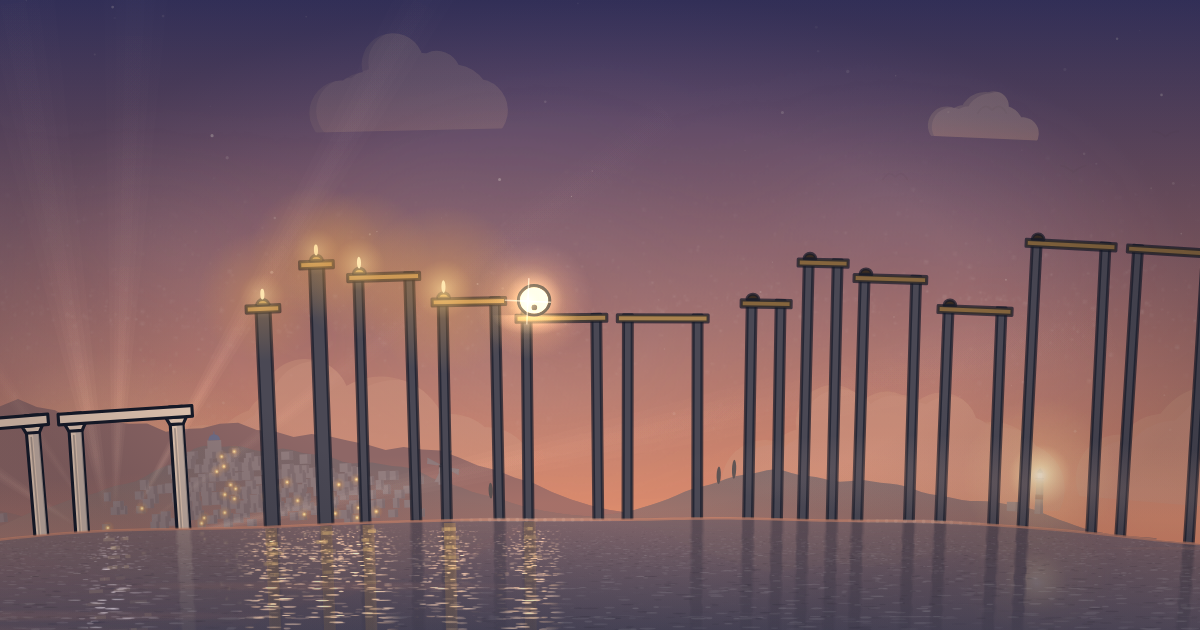
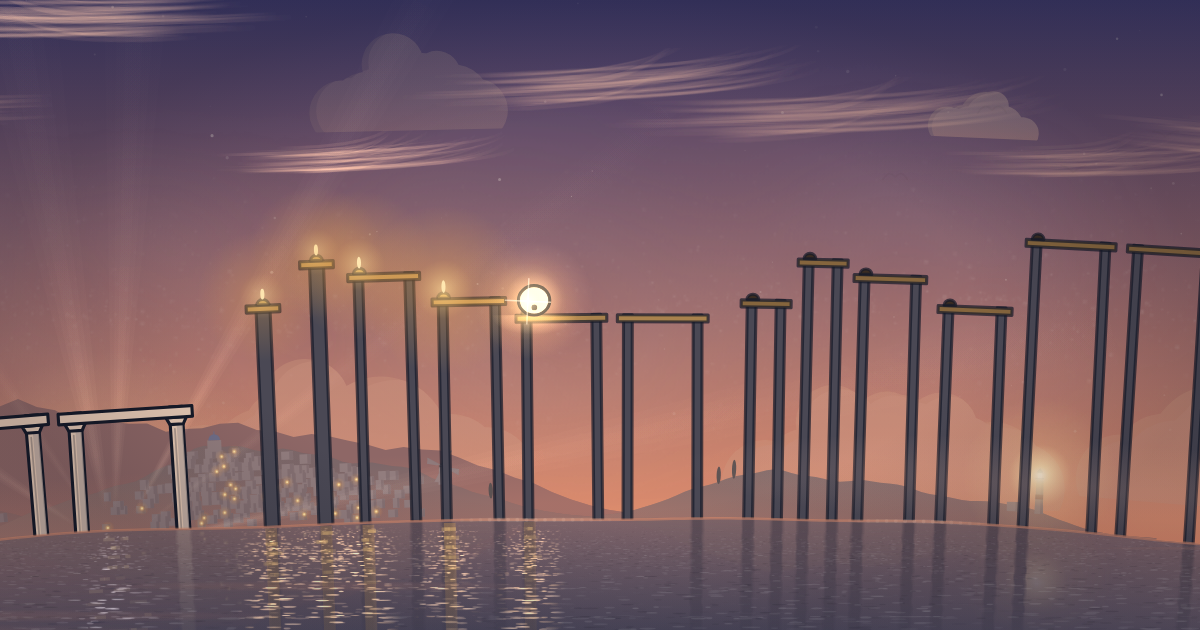
craft(gymnopedie): cirrus that take the sunset's colours and keep them after
High thin cloud over the cumulus, in a slow layer of its own: faint white by
day, gold then orange and pink as the sun goes down, brightest on the sun's
side, glowing pink to mauve after it has set as the first lamps are lit, and
gone as the full night comes; the same before the dawn. Drawn once, tinted
when the colour moves on: 0.1-0.2 ms a frame at 6x. A new check; the share
card redrawn.

diff --git a/apps/rube/src/shows/versions/gymnopedie/orbit/cirrus.ts b/apps/rube/src/shows/versions/gymnopedie/orbit/cirrus.ts
@@ -1,0 +1,151 @@
+import { mixHex } from '../../../../parts'
+import { inLayer, layered, overcastAt, repeatOf } from './air'
+import { RADIUS, along } from './path'
+import { hash, polar, skyAt, smooth } from './world'
+import { sunAngle, type Ctx2D } from './frame'
+
+/**
+ * Cirrus: high thin cloud, mares' tails, far above the cumulus, in a layer of its own that goes by slowest of all the
+ * air's. By day a faint white; as the sun goes down they take its light, gold and then orange and pink, brightest towards
+ * the sun, and go on glowing after it has set (the afterglow), pink to mauve, until the light leaves them grey and the
+ * night has them. And so again, the other way round, before the dawn.
+ */
+
+export const CIRRUS = { f: 0.06, span: repeatOf(0.06, 1), wind: 2 }
+
+export const WISPS = Array.from({ length: 13 }, (_, i) => ({
+  x: ((i + 0.15 + 0.7 * hash(i, 801)) * CIRRUS.span) / 13,
+  h: 3.0 + 1.7 * hash(i, 802),
+  len: 2.4 + 2.6 * hash(i, 803),
+  tilt: (hash(i, 804) - 0.5) * 0.12,
+  kind: Math.floor(hash(i, 805) * 4),
+  flip: hash(i, 806) < 0.5,
+}))
+
+const SPRITE_W = 512
+const SPRITE_H = 96
+let sprites: HTMLCanvasElement[] | null = null
+
+/** Four wisps, drawn once in white: fine strands sweeping along, hooked up at one end. */
+function wispSprites(): HTMLCanvasElement[] {
+  return [0, 1, 2, 3].map((kind) => {
+    const c = document.createElement('canvas')
+    c.width = SPRITE_W
+    c.height = SPRITE_H
+    const g = c.getContext('2d')!
+    g.lineCap = 'round'
+    const n = 34
+    for (let i = 0; i < n; i++) {
+      const y = SPRITE_H * (0.45 + 0.4 * (hash(kind, i, 811) - 0.5))
+      const x0 = SPRITE_W * (0.04 + 0.3 * hash(kind, i, 812))
+      const x1 = SPRITE_W * (0.55 + 0.4 * hash(kind, i, 813))
+      const hook = SPRITE_H * (0.15 + 0.3 * hash(kind, i, 814))
+      // Thinner and fainter towards the strand's ends.
+      const grad = g.createLinearGradient(x0, 0, x1, 0)
+      const a = 0.05 + 0.09 * hash(kind, i, 815)
+      grad.addColorStop(0, 'rgba(255, 255, 255, 0)')
+      grad.addColorStop(0.25, `rgba(255, 255, 255, ${a.toFixed(3)})`)
+      grad.addColorStop(0.7, `rgba(255, 255, 255, ${(a * 0.9).toFixed(3)})`)
+      grad.addColorStop(1, 'rgba(255, 255, 255, 0)')
+      g.strokeStyle = grad
+      g.lineWidth = 1.5 + 4 * hash(kind, i, 816)
+      g.beginPath()
+      g.moveTo(x0, y)
+      // Swept along, and hooked up at the far end: the mare's tail.
+      g.bezierCurveTo(x0 + (x1 - x0) * 0.4, y + 6 * (hash(kind, i, 817) - 0.5), x1 - 30, y - 4, x1, y - hook)
+      g.stroke()
+    }
+    return c
+  })
+}
+
+/** The wisps tinted one colour: remade only when the colour has moved on. */
+const tinted = new Map<string, HTMLCanvasElement[]>()
+function tintedSprites(colour: string): HTMLCanvasElement[] {
+  const got = tinted.get(colour)
+  if (got) return got
+  sprites ??= wispSprites()
+  const out = sprites.map((s) => {
+    const c = document.createElement('canvas')
+    c.width = SPRITE_W
+    c.height = SPRITE_H
+    const g = c.getContext('2d')!
+    g.drawImage(s, 0, 0)
+    g.globalCompositeOperation = 'source-in'
+    g.fillStyle = colour
+    g.fillRect(0, 0, SPRITE_W, SPRITE_H)
+    return c
+  })
+  if (tinted.size > 24) tinted.delete(tinted.keys().next().value!)
+  tinted.set(colour, out)
+  return out
+}
+
+/** Their light at `t`: what colour, and how much of them is seen. */
+export function cirrusLight(t: number): { colour: string; light: number; glow: number } {
+  // How far the sun is below (positive) or above (negative) the horizon, radians, taken within a half-turn.
+  const a = sunAngle(t)
+  const below = Math.abs(Math.atan2(Math.sin(a), Math.cos(a))) - 1.75
+  const keys: [number, string, number, number][] = [
+    // below, colour, how much is seen, how much they glow (lit from under by a low sun).
+    [-1.6, '#FFFFFF', 0.32, 0],
+    [-0.5, '#FFF4E2', 0.36, 0],
+    [-0.2, '#FFDCA8', 0.5, 0.35],
+    [0.0, '#FFB28A', 0.62, 0.7],
+    [0.18, '#EE92A6', 0.6, 0.55],
+    [0.4, '#B884A8', 0.42, 0.2],
+    [0.7, '#6E6E8E', 0.22, 0],
+    [1.0, '#3A3E5C', 0, 0],
+  ]
+  let i = 0
+  while (i + 2 < keys.length && keys[i + 1][0] <= below) i++
+  const [x0, c0, l0, g0] = keys[i]
+  const [x1, c1, l1, g1] = keys[i + 1]
+  const f = smooth(below, x0, x1)
+  // And the afterglow ends as the sky goes dark: they are gone in the full night, and back as it lifts before the dawn.
+  const clear = (1 - overcastAt(t)) * (1 - smooth(skyAt(t).night, 0.6, 0.88))
+  return { colour: mixHex(c0, c1, f), light: (l0 + (l1 - l0) * f) * clear, glow: (g0 + (g1 - g0) * f) * clear }
+}
+
+/** Colours a little apart are one colour here, so the tinted wisps are remade only now and then. */
+const quantise = (hex: string): string =>
+  '#' + [1, 3, 5].map((i) => Math.min(255, Math.round(parseInt(hex.slice(i, i + 2), 16) / 6) * 6).toString(16).padStart(2, '0')).join('')
+
+/**
+ * The cirrus, in the world's transform, each wisp at its place in its layer, high over the sea: brighter on the side of
+ * the frame the sun is on (`sunX`, device pixels across the canvas), as cloud is when lit from behind.
+ */
+export function drawCirrus(ctx: Ctx2D, k: number, t: number, half: number, sunX: number, alpha: number): void {
+  const { colour, light, glow } = cirrusLight(t)
+  if (light * alpha < 0.01) return
+  const set = tintedSprites(quantise(colour))
+  const u = along(t)
+  const W = ctx.canvas.width
+  const m = ctx.getTransform()
+  for (const w of WISPS) {
+    const d = layered(w.x, t, CIRRUS.f, CIRRUS.span, CIRRUS.wind)
+    const edge = inLayer(d, CIRRUS.span)
+    if (Math.abs(d) > half + w.len || edge < 0.01) continue
+    const [px, py] = polar(u + d, w.h)
+    // Towards the sun, brighter.
+    const sx = m.a * px * k + m.c * py * k + m.e
+    const near = Math.exp(-(((sx - sunX) / (W * 0.45)) ** 2))
+    const a = alpha * edge * light * (0.7 + 0.6 * near * (0.4 + glow))
+    if (a < 0.01) continue
+    ctx.save()
+    ctx.translate(px * k, py * k)
+    ctx.rotate((u + d) / RADIUS + w.tilt)
+    if (w.flip) ctx.scale(-1, 1)
+    const L = w.len * k
+    const H = (w.len * k * SPRITE_H) / SPRITE_W
+    ctx.globalAlpha = Math.min(1, a * 1.6)
+    ctx.drawImage(set[w.kind], -L / 2, -H / 2, L, H)
+    // Lit from under by the low sun: a glow over them.
+    if (glow > 0.01) {
+      ctx.globalCompositeOperation = 'lighter'
+      ctx.globalAlpha = Math.min(1, a * glow * 1.2 * (0.5 + near))
+      ctx.drawImage(set[w.kind], -L / 2, -H / 2, L, H)
+    }
+    ctx.restore()
+  }
+}

diff --git a/apps/rube/checks/gymnopedie.ts b/apps/rube/checks/gymnopedie.ts
@@ -17,6 +17,7 @@ import { LEAPS } from '../src/shows/versions/gymnopedie/orbit/dolphins'
 import { BLOSSOM } from '../src/shows/versions/gymnopedie/orbit/blossom'
 import { cometAnswers, cometAt, cometAngle, cometFlare } from '../src/shows/versions/gymnopedie/orbit/comet'
 import { squallAt } from '../src/shows/versions/gymnopedie/orbit/squall'
+import { CIRRUS, cirrusLight } from '../src/shows/versions/gymnopedie/orbit/cirrus'
 import { ISLES, LIGHTHOUSE_ON, RANGE, SHORE, beamAt, lighthouseAt, windowAt } from '../src/shows/versions/gymnopedie/orbit/shore'
 
 type Check = (name: string, ok: boolean, detail?: string) => void
@@ -131,7 +132,7 @@ export function checkGymnopedie(perf: Performance, version: Version, check: Chec
   check('gymnopedie: every flower opens as the ball comes, and closes at dawn', flowers.length > 150 && closed.length === 0, closed.slice(0, 5).map((s) => s.index).join(', '))
 
   // The air: clouds, gulls, mist and fireflies at their depths, all coming round with the period.
-  const layers = [BANK, HEAPS, GULLS, MIST, FIREFLY, SAILS, SHORE, RANGE]
+  const layers = [BANK, HEAPS, GULLS, MIST, FIREFLY, SAILS, SHORE, RANGE, CIRRUS]
   const roundAgain = layers.every((l) => [0, 3.3, 17.9, 40].every((x) => {
     const a = layered(x, 0, l.f, l.span, l.wind)
     const b = layered(x, PERIOD - 1e-7, l.f, l.span, l.wind)
@@ -188,6 +189,11 @@ export function checkGymnopedie(perf: Performance, version: Version, check: Chec
       const s = squallAt(t)!
       return rainAt(t) < 0.5 ? (bowAt(t) > 0.3 ? s.x > 0 : s.x < 0 || t > 170) : Math.abs(s.x) > 1.6
     }) && squallSeen.some((t) => t < 152 && squallAt(t)!.x < -2) && squallSeen.some((t) => bowAt(t) > 0.5 && squallAt(t)!.x > 2) && squallAt(10) === null && squallAt(400) === null)
+  // The cirrus: taking the sunset's colours and keeping them after, gone in the full night, and coming round.
+  const cirrusTimes = Array.from({ length: 1270 }, (_, i) => i * 0.5)
+  check('gymnopedie: the cirrus glow at sunset and after it, and are gone in the full night',
+    cirrusTimes.every((t) => skyAt(t).night < 0.88 || cirrusLight(t).light < 1e-6) &&
+    cirrusTimes.some((t) => t > 200 && t < 240 && cirrusLight(t).glow > 0.3) && Math.abs(cirrusLight(0).light - cirrusLight(PERIOD - 1e-6).light) < 1e-4)
   const meteorsOk = METEORS.length >= 4 && METEORS.every((t) => {
     const n = MELODY.find((m) => m.t === t)
     return !!n && n.piece > 0 && n.p === Math.max(...MELODY.filter((m) => m.piece === n.piece).map((m) => m.p)) && skyAt(t).night > 0.5

diff --git a/apps/rube/src/shows/versions/gymnopedie/orbit/sky.ts b/apps/rube/src/shows/versions/gymnopedie/orbit/sky.ts
@@ -8,6 +8,7 @@ import {
 } from './air'
 import { drawShore } from './shore'
 import { drawSquall } from './squall'
+import { drawCirrus } from './cirrus'
 import { HEAD, MID, cometAngle, cometAnswers, cometFlare, cometLight, cometSprite, cometSway } from './comet'
 import { alpha, hash, osc, polar, smooth, type Sky } from './world'
 import {
@@ -529,6 +530,8 @@ function air(p: p5, c: PieceCtx, v: View, day: Sky, sun: Body, moon: Body, near:
       p.pop()
     }
   }
+  // Highest and furthest: the cirrus, which take the low sun's colours and keep them after it has set.
+  drawCirrus(ctx, k, c.t, half, sun.x, near)
   layer(BANKS, BANK, hazy, (0.6 - 0.4 * day.night) * near * light.alpha, false)
   // The far shore, in front of the bank: islands, their villages and the lighthouse.
   drawShore(ctx, k, c.t, half, { day, sunAngle: sunAngle(c.t), moonUp }, near)

diff --git a/apps/rube/src/shows/versions/gymnopedie/GYMNOPEDIE.md b/apps/rube/src/shows/versions/gymnopedie/GYMNOPEDIE.md
@@ -128,6 +128,11 @@ The planet has weather, at depths behind the stones (`air.ts`):
   horizon's colour under them at dawn and dusk, dim and edged silver under the moon. How much of the sky is cloud
   moves through the day (`coverAt`): most of it by day, thinning at night for the stars and the Milky Way, more again
   under the moon; a cloud gathers and thins as the cover comes over its share.
+- Cirrus, high over the cumulus, mares' tails in a layer of their own that goes by slowest of all (`cirrus.ts`): a faint
+  white by day; as the sun goes down they take its light, gold and then orange and pink, brightest on the sun's side of
+  the frame, and glow on after it has set, pink to mauve, as the first lamps are lit, until the light leaves them grey
+  and the full night has them. So again, the other way round, before the dawn. Drawn once in white, and tinted again
+  only when their colour has moved on.
 - Rays from the low sun: at dawn through the morning's mist, and through the afternoon into the sunset, soft
   feathered wedges of warm light fanning across the sky behind the columns, each breathing slowly; held back while the
   shower's cloud is over, so they come as it clears (`raysAt`).
@@ -372,7 +377,7 @@ measured at under a millisecond's difference, and left out.
 
 `orbit/`: `music.ts` the notes as played; `path.ts` the ball's way and the stones; `camera.ts`; `titles.ts`; `world.ts`
 the day's colours; `air.ts` what lives in the air and the water (clouds, gulls, mist, the aurora, the whale) and their
-layers; `shore.ts` the far shore; `ripples.ts` the sea's surface; `dolphins.ts` the morning's dolphins; `blossom.ts` the colonnade's bougainvillea; `comet.ts` the third Gnossienne's comet; `squall.ts` the shower coming and going; and the drawings, `sky.ts`, `stones.ts`, `sea.ts` and `over.ts` (over the ball), with what they share in
+layers; `shore.ts` the far shore; `ripples.ts` the sea's surface; `dolphins.ts` the morning's dolphins; `blossom.ts` the colonnade's bougainvillea; `comet.ts` the third Gnossienne's comet; `squall.ts` the shower coming and going; `cirrus.ts` the high cloud; and the drawings, `sky.ts`, `stones.ts`, `sea.ts` and `over.ts` (over the ball), with what they share in
 `frame.ts` (the framed picture, the weathered day, the sun's and the moon's ways, the lamplighter's flame).
 `scene.ts` is their index.
 
